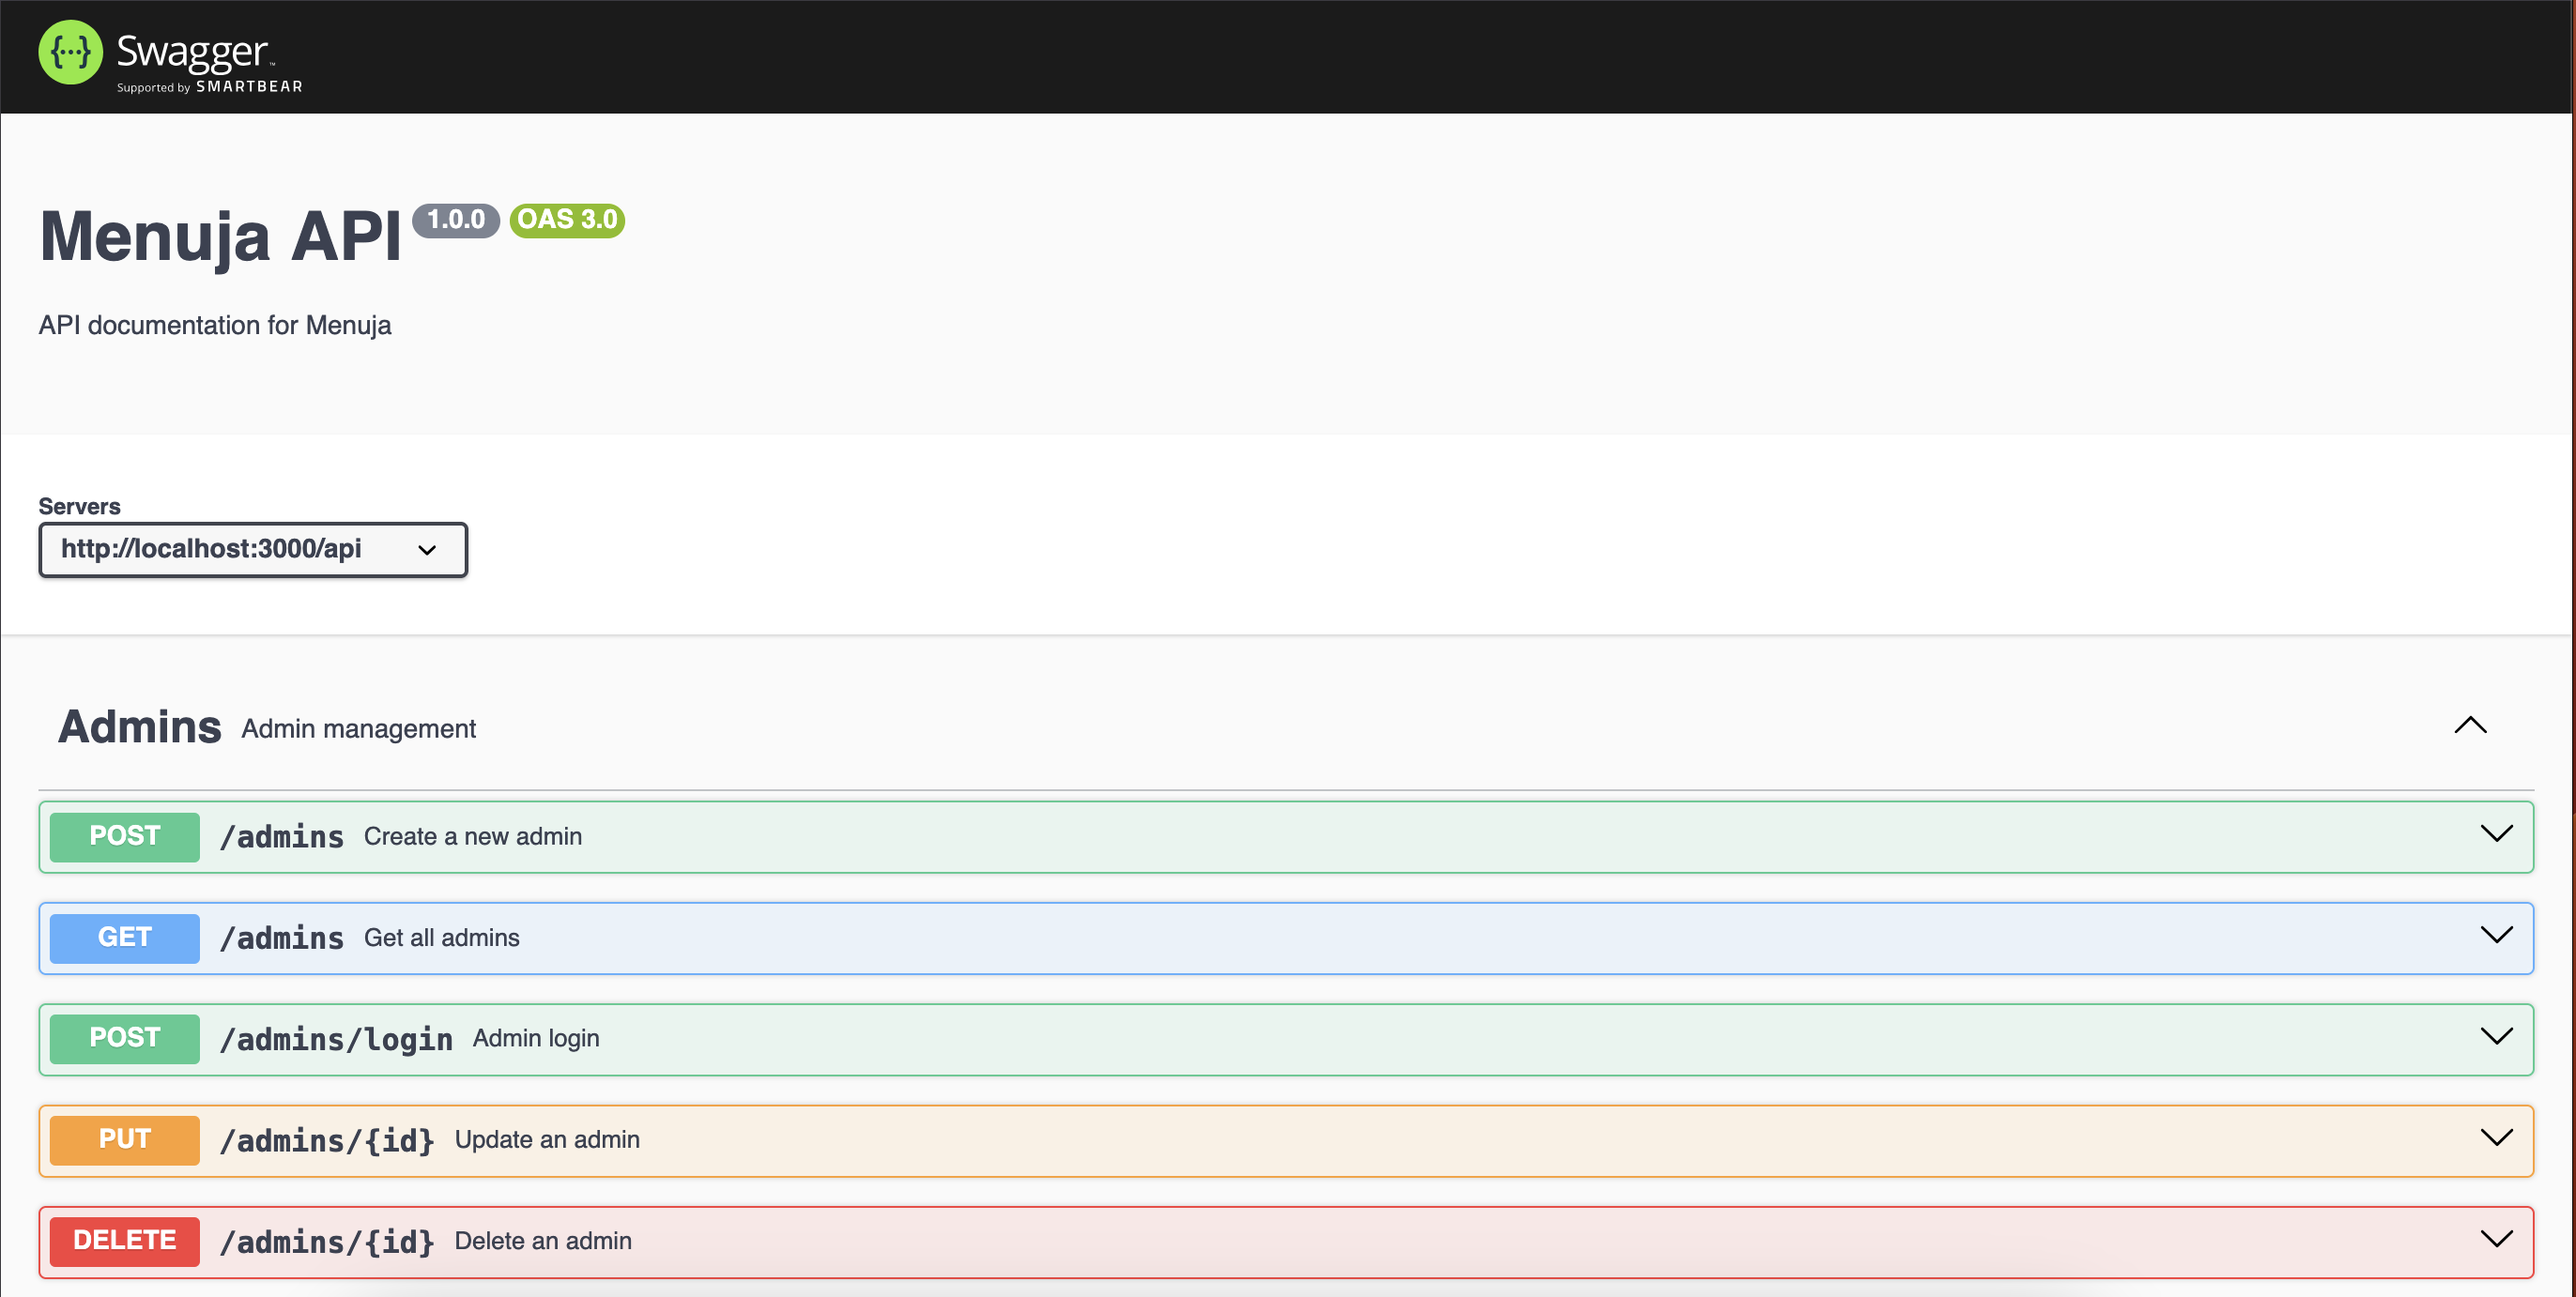
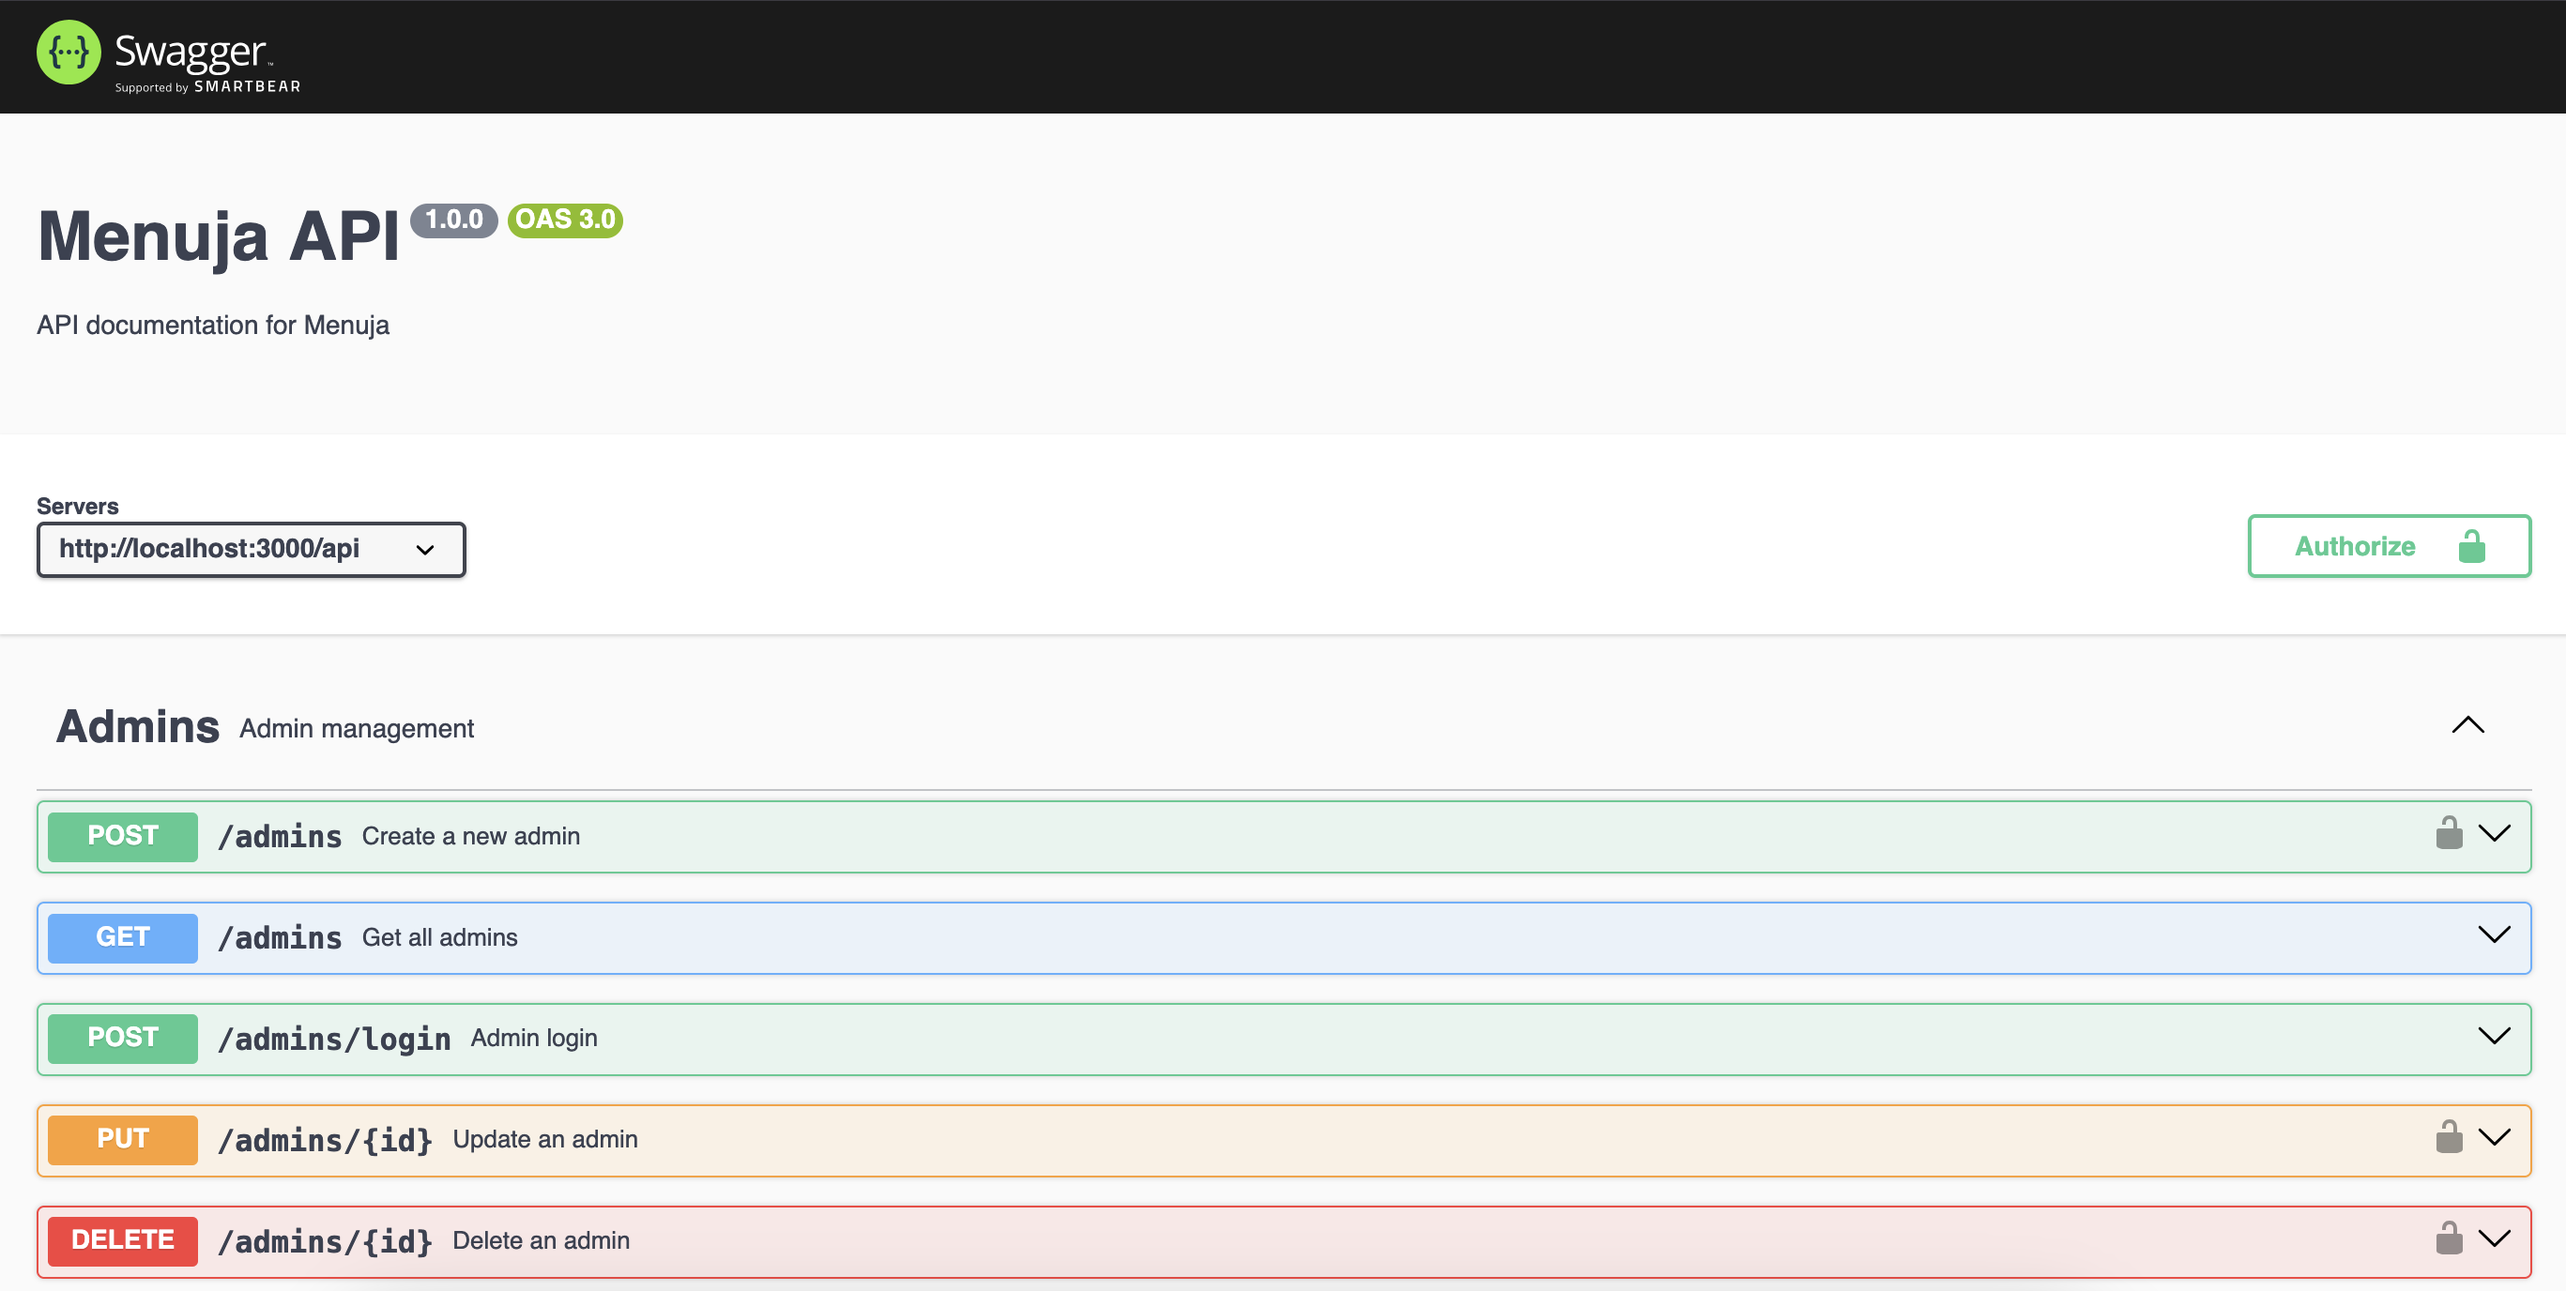
table roouter

diff --git a/src/routes/admin.route.ts b/src/routes/admin.route.ts
@@ -36,6 +36,8 @@ const adminRouter = Router();
  *   post:
  *     summary: Create a new admin
  *     tags: [Admins]
+ *     security:
+ *       - bearerAuth: []
  *     requestBody:
  *       required: true
  *       content:
@@ -115,6 +117,8 @@ adminRouter.get("/", adminController.getAllAdmins.bind(adminController));
  *   put:
  *     summary: Update an admin
  *     tags: [Admins]
+ *     security:
+ *       - bearerAuth: []
  *     parameters:
  *       - in: path
  *         name: id
